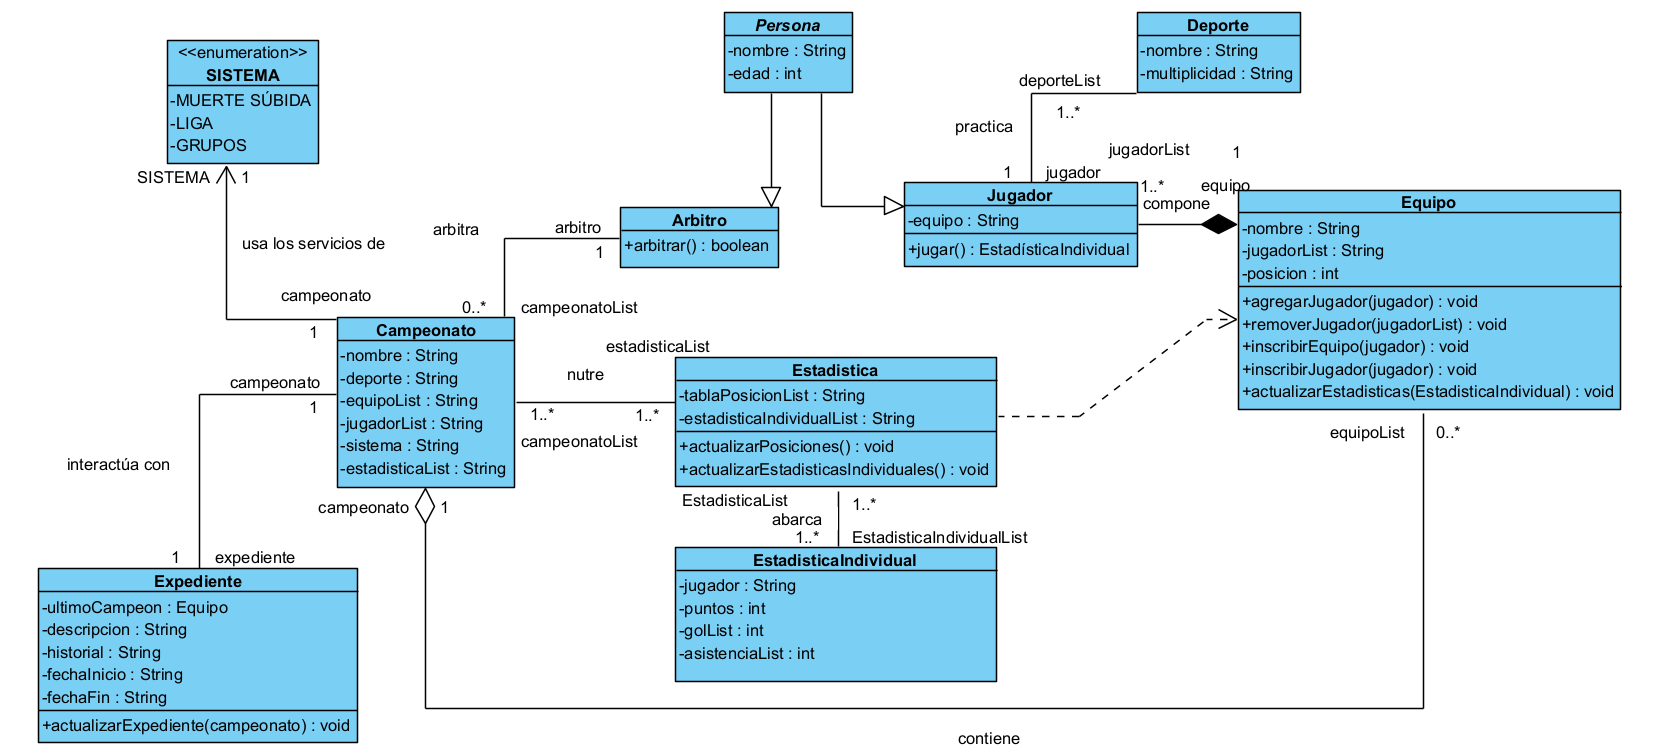
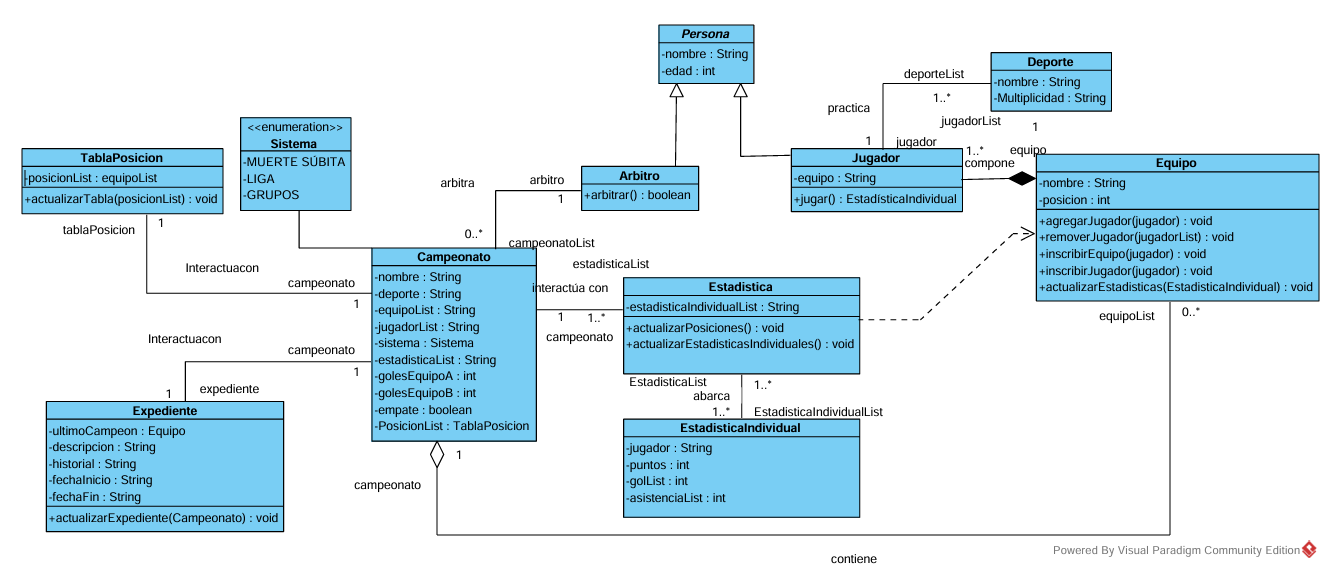
Código Update
Código Update

diff --git a/src/Taller Campeonato de Futbol/Estadistica.java b/src/Taller Campeonato de Futbol/Estadistica.java
@@ -1,15 +1,9 @@
 public class Estadistica {
-    private String tablaPosicionList;
+
     private String estadisticaIndividualList;
 
     public Estadistica(String tablaPosicionList, String estadisticaIndividualList) {
-        this.tablaPosicionList = tablaPosicionList;
         this.estadisticaIndividualList = estadisticaIndividualList;
-    }
-
-    public void actualizarPosiciones() {
-        // Lógica para actualizar posiciones
-        System.out.println("Actualizando posiciones en la tabla: " + tablaPosicionList);
     }
 
     public void actualizarEstadisticasIndividuales() {
@@ -17,14 +11,6 @@ public class Estadistica {
         System.out.println("Actualizando estadísticas individuales: " + estadisticaIndividualList);
     }
 
-    // Getters y setters
-    public String getTablaPosicionList() {
-        return tablaPosicionList;
-    }
-
-    public void setTablaPosicionList(String tablaPosicionList) {
-        this.tablaPosicionList = tablaPosicionList;
-    }
 
     public String getEstadisticaIndividualList() {
         return estadisticaIndividualList;

diff --git a/src/Taller Campeonato de Futbol/TablaPosicion.java b/src/Taller Campeonato de Futbol/TablaPosicion.java
@@ -1,0 +1,23 @@
+import java.util.List;
+
+public class TablaPosicion {
+
+    // Atributo privado
+    private List<Equipo> posicionList;
+
+    // Método público
+    public void actualizarTabla(List<Equipo> posicionList) {
+        this.posicionList = posicionList;
+        // Lógica adicional para actualizar la tabla puede ser agregada aquí
+    }
+
+    // Método getter para posicionList (opcional)
+    public List<Equipo> getPosicionList() {
+        return posicionList;
+    }
+
+    // Método setter para posicionList (opcional)
+    public void setPosicionList(List<Equipo> posicionList) {
+        this.posicionList = posicionList;
+    }
+}
